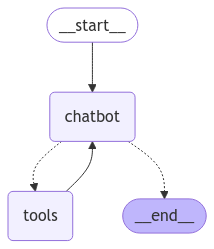
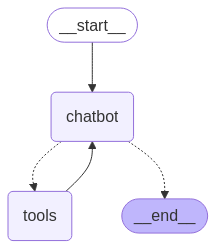
fix: temporary comment out open recall module calls, fix requirements, update readme with better setup instructions

diff --git a/modules/langgraph/tools/current_screen.py b/modules/langgraph/tools/current_screen.py
@@ -1,5 +1,5 @@
 from langchain_core.tools import tool
-from modules.openrecall.openrecall.screenshot import record_current_screenshot
+# from modules.openrecall.openrecall.screenshot import record_current_screenshot
 
 @tool
 def current_screen_tool(
@@ -10,6 +10,6 @@ def current_screen_tool(
     Can be used by the LLM whenever it deems the user is asking for something related to what he is currently seeing on his screen
     Or if the LLM deems the current screen context can be usefull to answer a question
     """
-    entries = record_current_screenshot()
-    print(entries)
-    return entries
+    # entries = record_current_screenshot()
+    # print(entries)
+    # return entries

diff --git a/modules/langgraph/tools/openrecall_search.py b/modules/langgraph/tools/openrecall_search.py
@@ -1,5 +1,5 @@
 from langchain_core.tools import tool
-from modules.openrecall.openrecall.database import search_entries
+# from modules.openrecall.openrecall.database import search_entries
 
 @tool
 def openrecall_search_tool(
@@ -11,6 +11,6 @@ def openrecall_search_tool(
     The LLM should fill the content input with the user query adapted for a semantic search in the database
     """
 
-    results = search_entries(input, 3)
-    filtered_results = [(app, title, text, timestamp) for app, title, text, timestamp, id, embedding in results]
-    return filtered_results
+    # results = search_entries(input, 3)
+    # filtered_results = [(app, title, text, timestamp) for app, title, text, timestamp, id, embedding in results]
+    # return filtered_results   

diff --git a/main.py b/main.py
@@ -1,6 +1,6 @@
 from dotenv import load_dotenv
 from modules.text_to_speech.tts import play
-from modules.openrecall.openrecall.app import init_main as openrecall_app
+# from modules.openrecall.openrecall.app import init_main as openrecall_app
 from threading import Thread
 
 if __name__ == '__main__':
@@ -11,8 +11,8 @@ if __name__ == '__main__':
     from modules.langgraph.graph import stream_graph_updates
     play("Meu nome é jarvis, como posso te ajudar?")
     
-    open_recall_thread = Thread(target=openrecall_app)
-    open_recall_thread.start()
+    # open_recall_thread = Thread(target=openrecall_app)
+    # open_recall_thread.start()
     
     detected = False
 

diff --git a/readme.md b/readme.md
@@ -59,8 +59,27 @@ Aurora is an intelligent voice assistant designed to enhance productivity throug
 
 Install dependencies:
 
+Install PortAudio:
+
+```bash
+sudo apt install portaudio19-dev
+```
+Or
+
+```bash
+brew install portaudio
+brew link portaudio
+```
+
+Install all Lib requirements:
 ```bash
 pip install -r requirements.txt
+```
+
+Optionally install cuda libraries for faster inference:
+```bash
+sudo apt-get install libcudnn9-cuda-12
+pip install torch==2.6.0+cu118 torchaudio==2.6.0 --index-url https://download.pytorch.org/whl/cu118
 ```
 
 Run the assistant: